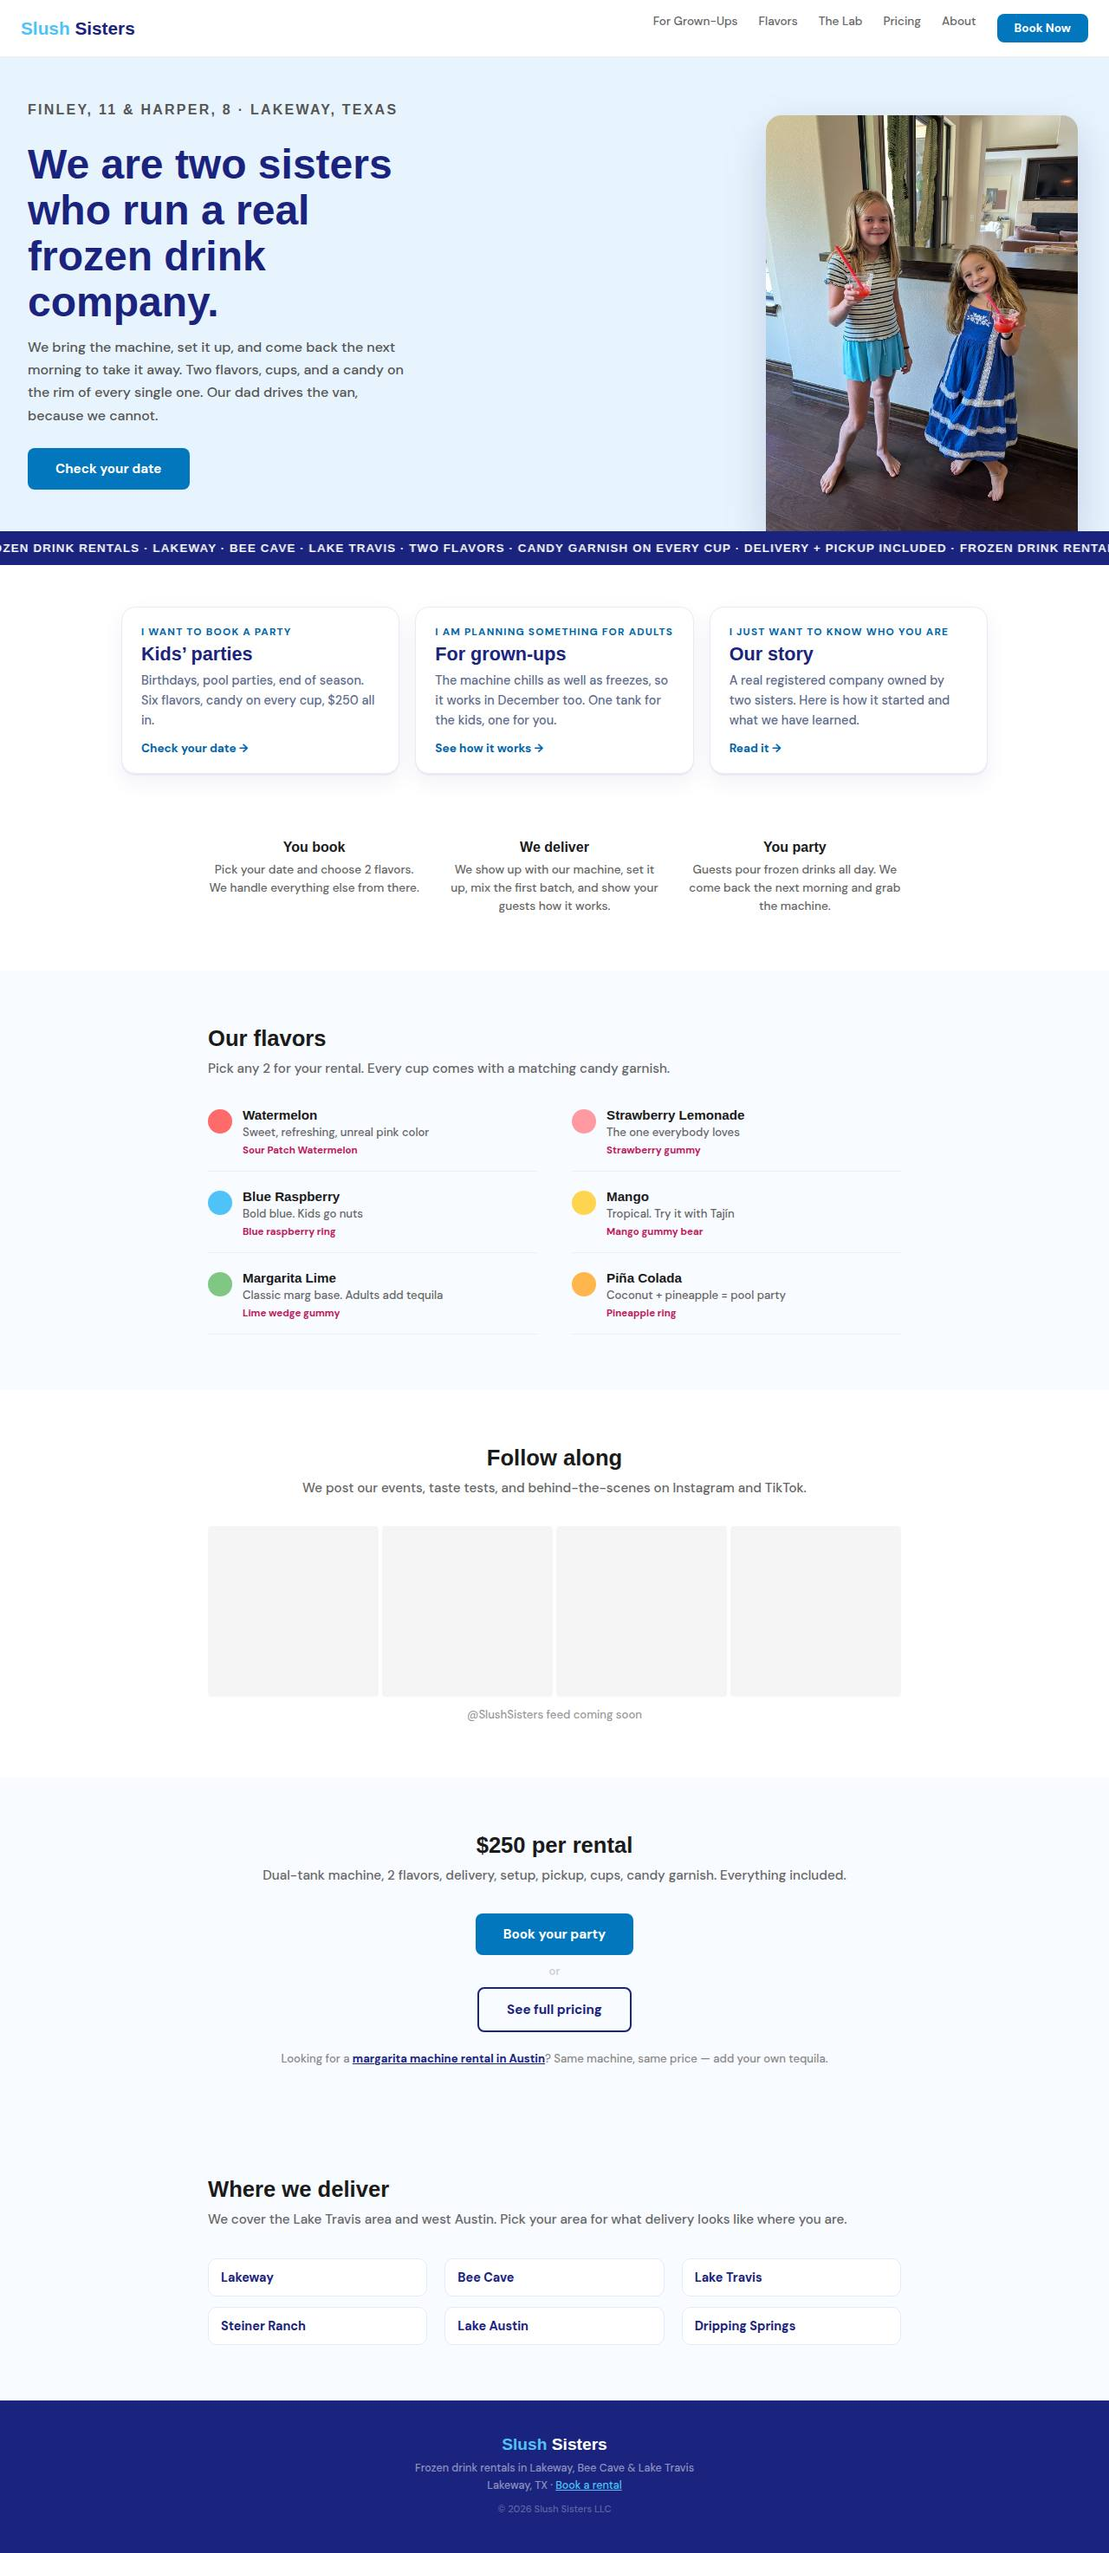
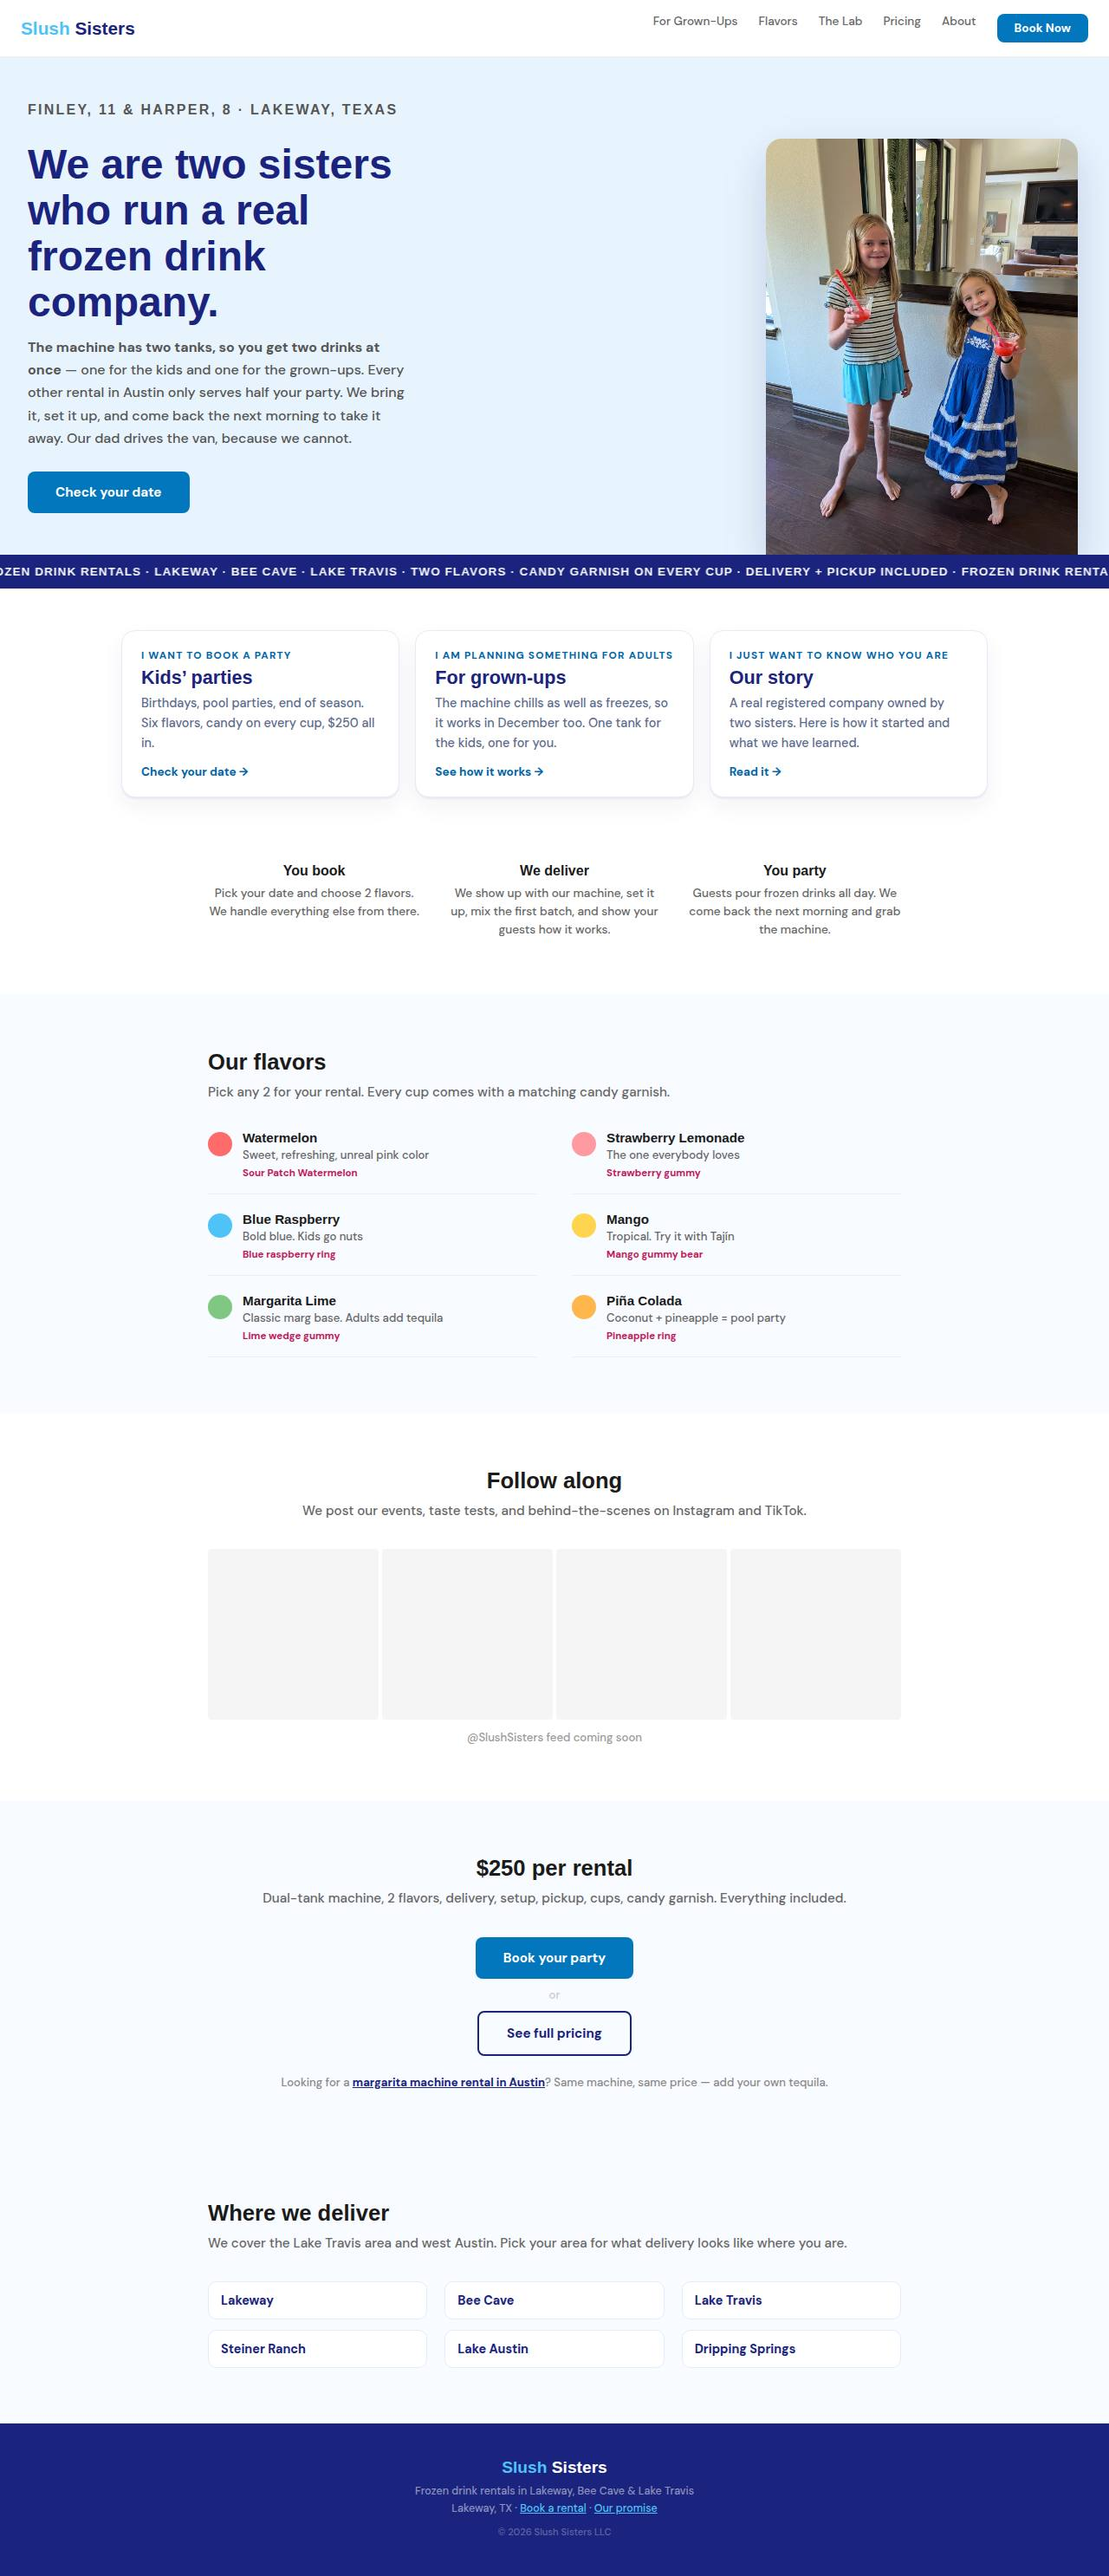
Put five findings from the research onto the site
These were all sitting in docs/ doing nothing. Each is a fact we already
knew and were not telling anyone.

- The two tanks now appear on the homepage first screen. It is the single
  strongest thing about the machine and it was buried on /grown-ups.
- "It does cold drinks too" added to the six service-area pages, /pricing
  and /flavors. Winter is half the year and we were reading as summer-only.
- /pricing explains why one price covers any guest count — almost all the
  cost is driving, setup and cleaning, which does not scale with guests.
- /pricing links to /lab, so the "why is it $250 and not $150" question
  has an answer that is not just a number.
- /promise is now linked from the footer of every page. It was reachable
  only by knowing the URL.

Snapshot clean at 390px on all 15 canonical pages.

diff --git a/public/pricing.html b/public/pricing.html
@@ -237,7 +237,9 @@ section h1{font-family:'Baloo 2',sans-serif;font-size:1.75rem;font-weight:800;ma
 <li>Free delivery within 15 miles of Lakeway</li>
 </ul>
 </div>
+<p class="extras" style="margin-bottom:10px;"><b>Why it is one price whatever the guest count.</b> Almost everything a party costs us is the driving, the setting up and the cleaning &mdash; and that is the same whether twenty people come or sixty. So we do not charge per guest, and we never put the price up on a hot weekend.</p>
 <p class="extras">Add-ons: Extra flavor batch $25 · Second machine same event $225 · Beyond 15 mi $1/mile</p>
+<p class="extras" style="margin-top:18px;"><b>It does cold drinks too.</b> The same machine will chill a drink instead of freezing it, so it works in December as well as July. <a href="/grown-ups">How that works</a>.</p>
 </div>
 </section>
 
@@ -263,6 +265,6 @@ section h1{font-family:'Baloo 2',sans-serif;font-size:1.75rem;font-weight:800;ma
 <footer>
 <div class="f-name"><span>Slush</span> Sisters</div>
 <p>Frozen drink rentals in Lakeway, Bee Cave &amp; Lake Travis</p>
-<p>Lakeway, TX · <a href="/book">Book a rental</a></p>
+<p>Lakeway, TX · <a href="/book">Book a rental</a> · <a href="/promise">Our promise</a></p>
 <p style="margin-top:12px;font-size:.7rem;color:rgba(255,255,255,.3);">&copy; 2026 Slush Sisters LLC</p>
 </footer></body></html>

diff --git a/public/index.html b/public/index.html
@@ -300,7 +300,7 @@ footer a{color:var(--ice);}
 <div class="hero-text">
 <p class="kicker">Finley, 11 &amp; Harper, 8 &middot; Lakeway, Texas</p>
 <h1>We are two sisters who run a real frozen drink company.</h1>
-<p>We bring the machine, set it up, and come back the next morning to take it away. Two flavors, cups, and a candy on the rim of every single one. Our dad drives the van, because we cannot.</p>
+<p><b>The machine has two tanks, so you get two drinks at once</b> &mdash; one for the kids and one for the grown-ups. Every other rental in Austin only serves half your party. We bring it, set it up, and come back the next morning to take it away. Our dad drives the van, because we cannot.</p>
 <a href="/book" class="btn">Check your date</a>
 </div>
 <picture>
@@ -405,6 +405,6 @@ footer a{color:var(--ice);}
 <footer>
 <div class="f-name"><span>Slush</span> Sisters</div>
 <p>Frozen drink rentals in Lakeway, Bee Cave &amp; Lake Travis</p>
-<p>Lakeway, TX · <a href="/book">Book a rental</a></p>
+<p>Lakeway, TX · <a href="/book">Book a rental</a> · <a href="/promise">Our promise</a></p>
 <p style="margin-top:12px;font-size:.7rem;color:rgba(255,255,255,.3);">&copy; 2026 Slush Sisters LLC</p>
 </footer></body></html>

diff --git a/public/frozen-drink-machine-rental-bee-cave.html b/public/frozen-drink-machine-rental-bee-cave.html
@@ -387,6 +387,7 @@ footer a{color:var(--ice);}
 </ul>
 </div>
 <p class="extras">$50 deposit holds your date and comes off the $250.</p>
+<p class="extras" style="margin-top:18px;"><b>It does cold drinks too.</b> The same machine will chill a drink instead of freezing it, so it works in December as well as July. <a href="/grown-ups">How that works</a>.</p>
 <p class="extras" style="margin-top:8px;">Flavors: Watermelon · Strawberry Lemonade · Blue Raspberry · Mango · Margarita Lime · Piña Colada</p>
 
 <div class="sisters-note">
@@ -432,6 +433,6 @@ footer a{color:var(--ice);}
 <footer>
 <div class="f-name"><span>Slush</span> Sisters</div>
 <p>Frozen drink rentals in Lakeway, Bee Cave &amp; Lake Travis</p>
-<p>Lakeway, TX · <a href="/book">Book a rental</a></p>
+<p>Lakeway, TX · <a href="/book">Book a rental</a> · <a href="/promise">Our promise</a></p>
 <p style="margin-top:12px;font-size:.7rem;color:rgba(255,255,255,.3);">&copy; 2026 Slush Sisters LLC</p>
 </footer></body></html>

diff --git a/public/frozen-drink-machine-rental-dripping-springs.html b/public/frozen-drink-machine-rental-dripping-springs.html
@@ -383,6 +383,7 @@ footer a{color:var(--ice);}
 </ul>
 </div>
 <p class="extras">$50 deposit holds your date and comes off the $250.</p>
+<p class="extras" style="margin-top:18px;"><b>It does cold drinks too.</b> The same machine will chill a drink instead of freezing it, so it works in December as well as July. <a href="/grown-ups">How that works</a>.</p>
 <p class="extras" style="margin-top:8px;">Flavors: Watermelon · Strawberry Lemonade · Blue Raspberry · Mango · Margarita Lime · Piña Colada</p>
 
 <div class="sisters-note">
@@ -428,6 +429,6 @@ footer a{color:var(--ice);}
 <footer>
 <div class="f-name"><span>Slush</span> Sisters</div>
 <p>Frozen drink rentals in Lakeway, Bee Cave &amp; Lake Travis</p>
-<p>Lakeway, TX · <a href="/book">Book a rental</a></p>
+<p>Lakeway, TX · <a href="/book">Book a rental</a> · <a href="/promise">Our promise</a></p>
 <p style="margin-top:12px;font-size:.7rem;color:rgba(255,255,255,.3);">&copy; 2026 Slush Sisters LLC</p>
 </footer></body></html>

diff --git a/public/frozen-drink-machine-rental-lake-austin.html b/public/frozen-drink-machine-rental-lake-austin.html
@@ -388,6 +388,7 @@ footer a{color:var(--ice);}
 </ul>
 </div>
 <p class="extras">$50 deposit holds your date and comes off the $250.</p>
+<p class="extras" style="margin-top:18px;"><b>It does cold drinks too.</b> The same machine will chill a drink instead of freezing it, so it works in December as well as July. <a href="/grown-ups">How that works</a>.</p>
 <p class="extras" style="margin-top:8px;">Flavors: Watermelon · Strawberry Lemonade · Blue Raspberry · Mango · Margarita Lime · Piña Colada</p>
 
 <div class="sisters-note">
@@ -433,6 +434,6 @@ footer a{color:var(--ice);}
 <footer>
 <div class="f-name"><span>Slush</span> Sisters</div>
 <p>Frozen drink rentals in Lakeway, Bee Cave &amp; Lake Travis</p>
-<p>Lakeway, TX · <a href="/book">Book a rental</a></p>
+<p>Lakeway, TX · <a href="/book">Book a rental</a> · <a href="/promise">Our promise</a></p>
 <p style="margin-top:12px;font-size:.7rem;color:rgba(255,255,255,.3);">&copy; 2026 Slush Sisters LLC</p>
 </footer></body></html>

diff --git a/public/frozen-drink-machine-rental-lake-travis.html b/public/frozen-drink-machine-rental-lake-travis.html
@@ -396,6 +396,7 @@ footer a{color:var(--ice);}
 </ul>
 </div>
 <p class="extras">$50 deposit holds your date and comes off the $250.</p>
+<p class="extras" style="margin-top:18px;"><b>It does cold drinks too.</b> The same machine will chill a drink instead of freezing it, so it works in December as well as July. <a href="/grown-ups">How that works</a>.</p>
 <p class="extras" style="margin-top:8px;">Flavors: Watermelon · Strawberry Lemonade · Blue Raspberry · Mango · Margarita Lime · Piña Colada</p>
 
 <div class="sisters-note">
@@ -445,6 +446,6 @@ footer a{color:var(--ice);}
 <footer>
 <div class="f-name"><span>Slush</span> Sisters</div>
 <p>Frozen drink rentals in Lakeway, Bee Cave &amp; Lake Travis</p>
-<p>Lakeway, TX · <a href="/book">Book a rental</a></p>
+<p>Lakeway, TX · <a href="/book">Book a rental</a> · <a href="/promise">Our promise</a></p>
 <p style="margin-top:12px;font-size:.7rem;color:rgba(255,255,255,.3);">&copy; 2026 Slush Sisters LLC</p>
 </footer></body></html>

diff --git a/public/frozen-drink-machine-rental-lakeway.html b/public/frozen-drink-machine-rental-lakeway.html
@@ -382,6 +382,7 @@ footer a{color:var(--ice);}
 </ul>
 </div>
 <p class="extras">$50 deposit holds your date and comes off the $250.</p>
+<p class="extras" style="margin-top:18px;"><b>It does cold drinks too.</b> The same machine will chill a drink instead of freezing it, so it works in December as well as July. <a href="/grown-ups">How that works</a>.</p>
 <p class="extras" style="margin-top:8px;">Flavors: Watermelon · Strawberry Lemonade · Blue Raspberry · Mango · Margarita Lime · Piña Colada</p>
 
 <div class="sisters-note">
@@ -427,6 +428,6 @@ footer a{color:var(--ice);}
 <footer>
 <div class="f-name"><span>Slush</span> Sisters</div>
 <p>Frozen drink rentals in Lakeway, Bee Cave &amp; Lake Travis</p>
-<p>Lakeway, TX · <a href="/book">Book a rental</a></p>
+<p>Lakeway, TX · <a href="/book">Book a rental</a> · <a href="/promise">Our promise</a></p>
 <p style="margin-top:12px;font-size:.7rem;color:rgba(255,255,255,.3);">&copy; 2026 Slush Sisters LLC</p>
 </footer></body></html>

diff --git a/public/frozen-drink-machine-rental-steiner-ranch.html b/public/frozen-drink-machine-rental-steiner-ranch.html
@@ -388,6 +388,7 @@ footer a{color:var(--ice);}
 </ul>
 </div>
 <p class="extras">$50 deposit holds your date and comes off the $250.</p>
+<p class="extras" style="margin-top:18px;"><b>It does cold drinks too.</b> The same machine will chill a drink instead of freezing it, so it works in December as well as July. <a href="/grown-ups">How that works</a>.</p>
 <p class="extras" style="margin-top:8px;">Flavors: Watermelon · Strawberry Lemonade · Blue Raspberry · Mango · Margarita Lime · Piña Colada</p>
 
 <div class="sisters-note">
@@ -433,6 +434,6 @@ footer a{color:var(--ice);}
 <footer>
 <div class="f-name"><span>Slush</span> Sisters</div>
 <p>Frozen drink rentals in Lakeway, Bee Cave &amp; Lake Travis</p>
-<p>Lakeway, TX · <a href="/book">Book a rental</a></p>
+<p>Lakeway, TX · <a href="/book">Book a rental</a> · <a href="/promise">Our promise</a></p>
 <p style="margin-top:12px;font-size:.7rem;color:rgba(255,255,255,.3);">&copy; 2026 Slush Sisters LLC</p>
 </footer></body></html>

diff --git a/public/about.html b/public/about.html
@@ -256,6 +256,6 @@ section h1{font-family:'Baloo 2',sans-serif;font-size:1.75rem;font-weight:800;ma
 <footer>
 <div class="f-name"><span>Slush</span> Sisters</div>
 <p>Frozen drink rentals in Lakeway, Bee Cave &amp; Lake Travis</p>
-<p>Lakeway, TX · <a href="/book">Book a rental</a></p>
+<p>Lakeway, TX · <a href="/book">Book a rental</a> · <a href="/promise">Our promise</a></p>
 <p style="margin-top:12px;font-size:.7rem;color:rgba(255,255,255,.3);">&copy; 2026 Slush Sisters LLC</p>
 </footer></body></html>

diff --git a/public/flavors.html b/public/flavors.html
@@ -239,6 +239,6 @@ section h1{font-family:'Baloo 2',sans-serif;font-size:1.75rem;font-weight:800;ma
 <footer>
 <div class="f-name"><span>Slush</span> Sisters</div>
 <p>Frozen drink rentals in Lakeway, Bee Cave &amp; Lake Travis</p>
-<p>Lakeway, TX · <a href="/book">Book a rental</a></p>
+<p>Lakeway, TX · <a href="/book">Book a rental</a> · <a href="/promise">Our promise</a></p>
 <p style="margin-top:12px;font-size:.7rem;color:rgba(255,255,255,.3);">&copy; 2026 Slush Sisters LLC</p>
 </footer></body></html>

diff --git a/public/book.html b/public/book.html
@@ -297,7 +297,7 @@ section h1{font-family:'Baloo 2',sans-serif;font-size:1.75rem;font-weight:800;ma
 <footer>
 <div class="f-name"><span>Slush</span> Sisters</div>
 <p>Frozen drink rentals in Lakeway, Bee Cave &amp; Lake Travis</p>
-<p>Lakeway, TX · <a href="/book">Book a rental</a></p>
+<p>Lakeway, TX · <a href="/book">Book a rental</a> · <a href="/promise">Our promise</a></p>
 <p style="margin-top:12px;font-size:.7rem;color:rgba(255,255,255,.3);">&copy; 2026 Slush Sisters LLC</p>
 </footer>
 

diff --git a/public/austin.html b/public/austin.html
@@ -360,6 +360,6 @@ footer a{color:var(--ice);}
 <footer>
 <div class="f-name"><span>Slush</span> Sisters</div>
 <p>Frozen drink rentals across the Austin area</p>
-<p>Lakeway, TX &middot; <a href="/book">Book a rental</a></p>
+<p>Lakeway, TX &middot; <a href="/book">Book a rental</a> &middot; <a href="/promise">Our promise</a></p>
 <p style="margin-top:12px;font-size:.7rem;color:rgba(255,255,255,.3);">&copy; 2026 Slush Sisters LLC</p>
 </footer></body></html>
